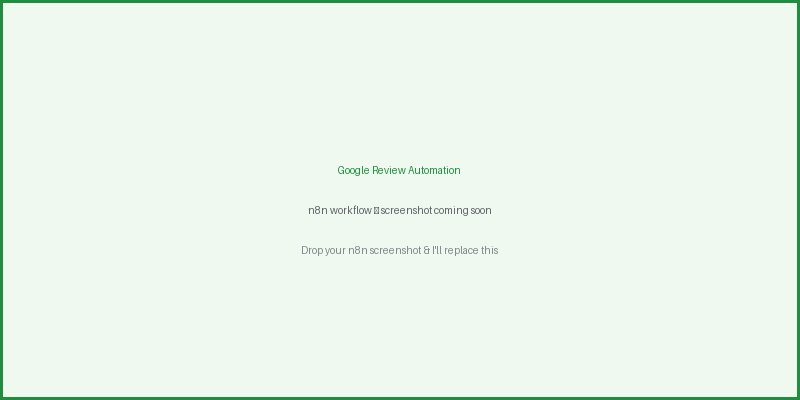
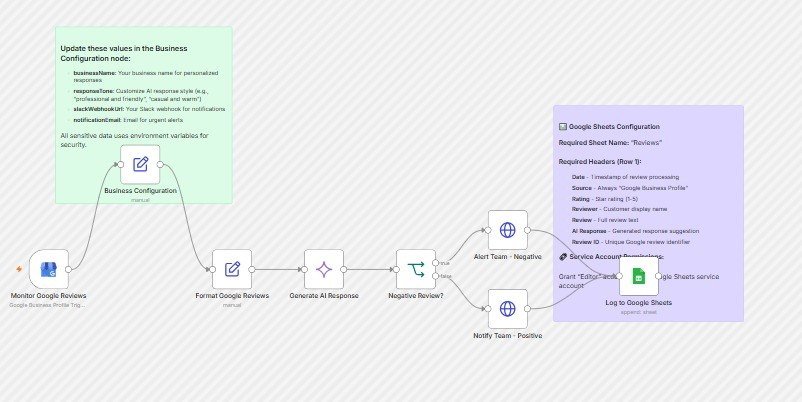
Update Google Review case study with real n8n workflow screenshot and accurate description

diff --git a/index.html b/index.html
@@ -705,7 +705,7 @@
       <div class="case-info">
         <h3>Google Review Automation</h3>
         <div class="case-tag">
-          <span class="material-symbols-outlined">stack</span> n8n (No-Code) &middot; Google Business Profile
+          <span class="material-symbols-outlined">stack</span> n8n (No-Code) &middot; Google Business Profile &middot; OpenAI
         </div>
       </div>
     </div>
@@ -713,25 +713,25 @@
     <div class="case-section">
       <div class="case-section-label">Who is this for</div>
       <p class="case-text">
-        Local businesses, service providers, and agencies that need a steady stream of Google reviews to improve their local SEO ranking and social proof — without manually chasing every customer.
+        Local businesses, service providers, and agencies who need to actively manage their Google reviews — respond fast, track sentiment, and keep their online reputation healthy without checking Google manually every day.
       </p>
     </div>
 
     <div class="case-section">
       <div class="case-section-label">The problem it solves</div>
       <p class="case-text">
-        Most customers never leave reviews unless asked multiple times. Manually sending review requests is tedious and inconsistent. This n8n workflow automates the entire process: after a service is completed, the customer automatically receives a personalized review request via SMS or email with a direct link to leave a Google review. Follow-ups are sent if no action is taken.
+        Google reviews directly impact local SEO and customer trust, but most businesses either ignore them or respond late. A single negative review left unanswered can cost dozens of leads. Manually monitoring reviews, drafting responses, and notifying the right team members is tedious and easy to drop. This n8n workflow automates the entire pipeline.
       </p>
     </div>
 
     <div class="case-section">
       <div class="case-section-label">How it works</div>
       <p class="case-text">
-        Triggered by a webhook or database update (e.g., order marked "completed"), the workflow pulls customer contact info, generates a unique Google review link, and sends a personalized SMS or email. If the customer hasn't left a review within 3 days, an automatic reminder is sent. A dashboard tracks who left reviews and who didn't, so the business can follow up manually with high-value clients if needed. Entirely no-code — built in n8n.
+        Triggered by a new Google Business Profile review, the workflow formats the review data and sends it to OpenAI for an intelligent, brand-aligned response. It then classifies the review as positive or negative. Negative reviews trigger an urgent Slack alert to the team so they can act fast. Positive reviews notify the team for engagement. Every review, AI response, and rating is logged to Google Sheets with timestamps, review IDs, and full context for easy tracking.
       </p>
     </div>
 
-    <img src="images/google-review-workflow.jpg" alt="Google Review Automation workflow" style="width:100%;border-radius:8px;margin-top:16px;box-shadow:0 1px 3px rgba(0,0,0,0.06),0 1px 2px rgba(0,0,0,0.04)">
+    <img src="images/google-review-workflow.jpg" alt="Google Review Automation n8n workflow" style="width:100%;border-radius:8px;margin-top:16px;box-shadow:0 1px 3px rgba(0,0,0,0.06),0 1px 2px rgba(0,0,0,0.04)">
   </div>
 
   <!-- ── Testimonials ── -->